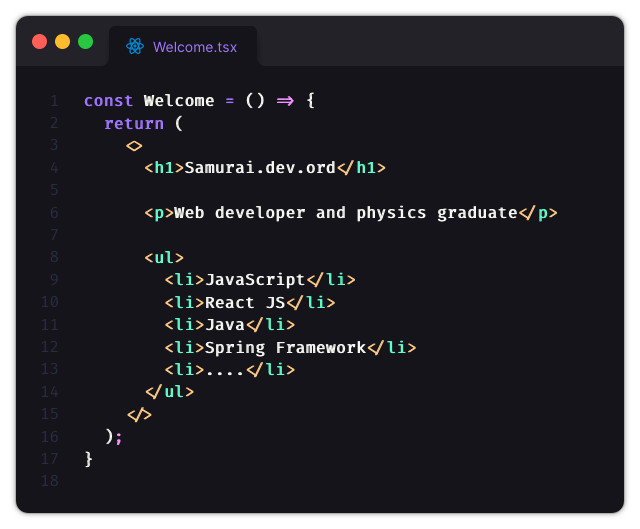
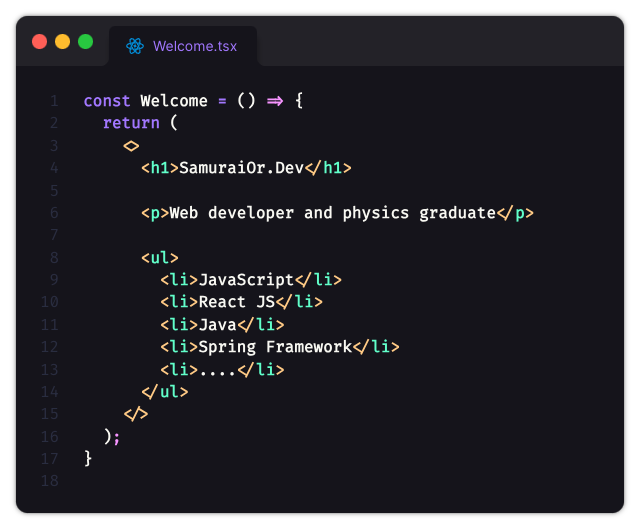
Change Format HeroBanner  - 19:54 - 2-06-2023

diff --git a/src/data/config.ts b/src/data/config.ts
@@ -1,6 +1,6 @@
 export const frontMatter = {
-  title: "WebPersonal | Samurai.Dev.Ord",
+  title: "WebPersonal | SamuraiOr.Dev",
   description:
-    "WebPersonal del desarrollador web FullStack Samurai.Dev.Ord. En ella podrás encontrar información sobre mi, mis proyectos y mis redes sociales. ¡Bienvenido!",
+    "WebPersonal del desarrollador web FullStack SamuraiOr.Dev. En ella podrás encontrar información sobre mi, mis proyectos y mis redes sociales. ¡Bienvenido!",
   author: "Víctor Manuel Ordiales García",
 };
